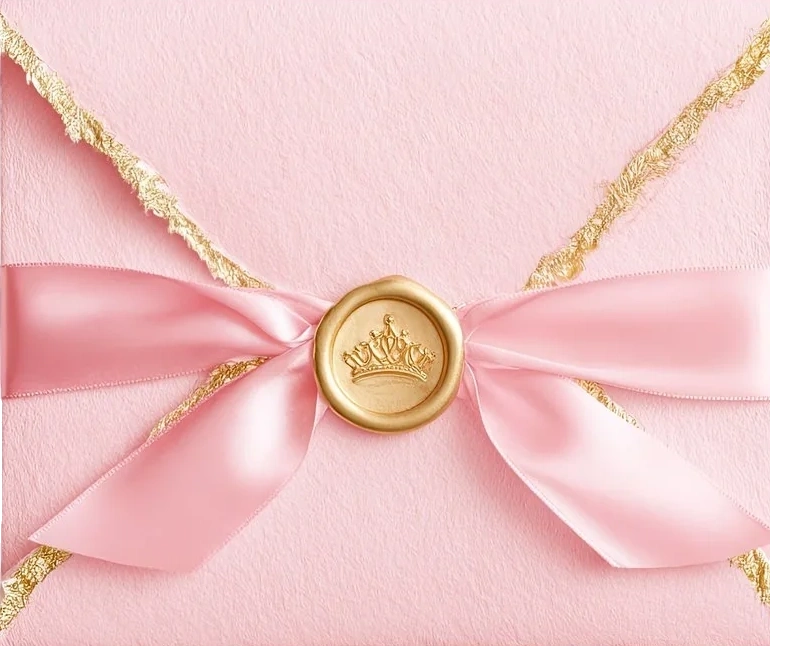
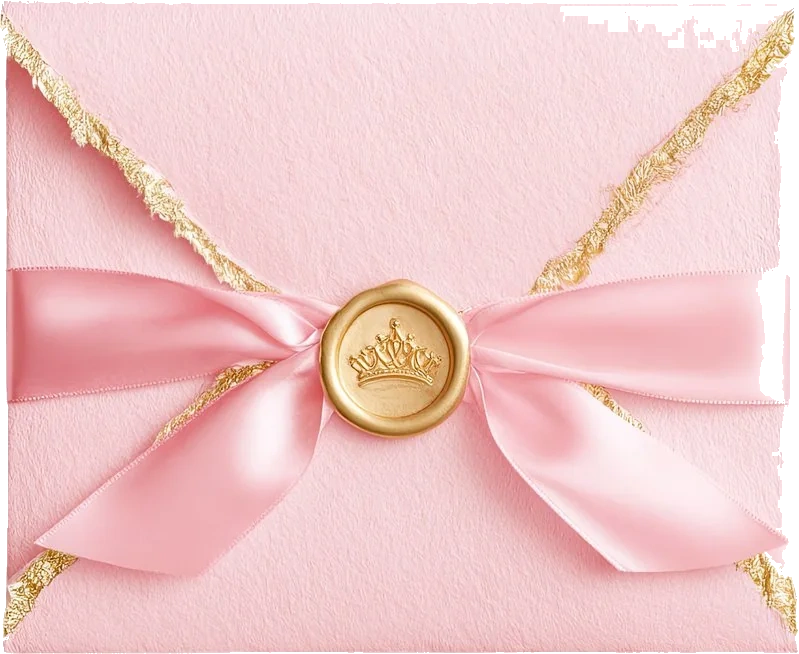
fix(blush-princess): remove crown/butterfly overlay on closed envelope and fix open envelope flap clipping & right-edge line

diff --git a/src/components/templates/BlushPrincessTemplate.tsx b/src/components/templates/BlushPrincessTemplate.tsx
@@ -485,20 +485,21 @@ export default function BlushPrincessTemplate({
             {/* Escenario del sobre: overflow visible, escalado proporcional natural sin recortes */}
             <div
               id="envelopeContainer"
-              className={`envelope-container card-wrapper card-transition-container relative cursor-pointer bg-transparent border-0 shadow-none mx-auto w-full max-w-[460px] ${
+              className={`envelope-container card-wrapper card-transition-container relative cursor-pointer bg-transparent border-0 shadow-none mx-auto w-full max-w-[500px] ${
                 isEnvelopeOpen ? "animate-envelope-pulse" : ""
               }`}
               style={{
                 overflow: "visible",
                 width: "auto",
-                maxWidth: "100%",
+                maxWidth: "500px",
+                margin: "0 auto",
                 background: "transparent",
                 backgroundColor: "transparent",
                 border: "none",
                 boxShadow: "none",
               }}
             >
-              {/* Sobre ABIERTO: escala proporcional a max-width 460px sin recortar solapas laterales */}
+              {/* Sobre ABIERTO: escala proporcional a max-width 500px sin recortar solapas laterales */}
               <div
                 className={`envelope-wrapper relative mx-auto transition-all duration-500 bg-transparent border-0 ${
                   isEnvelopeOpen
@@ -507,8 +508,8 @@ export default function BlushPrincessTemplate({
                 }`}
                 style={{
                   overflow: "visible",
-                  width: "100%",
-                  maxWidth: "460px",
+                  width: "auto",
+                  maxWidth: "500px",
                   margin: "0 auto",
                   background: "transparent",
                   backgroundColor: "transparent",
@@ -523,7 +524,7 @@ export default function BlushPrincessTemplate({
                   className="envelope-image w-full h-auto object-contain bg-transparent border-0 shadow-none block mx-auto"
                   style={{
                     width: "100%",
-                    maxWidth: "460px",
+                    maxWidth: "500px",
                     height: "auto",
                     objectFit: "contain",
                     margin: "0 auto",
@@ -553,15 +554,15 @@ export default function BlushPrincessTemplate({
                 </div>
               </div>
 
-              {/* Sobre CERRADO: escala proporcional natural */}
+              {/* Sobre CERRADO: estructura original limpia con solapa, lazo satinado y sello de lacre */}
               <div
                 className={`envelope-wrapper relative mx-auto transition-opacity duration-200 bg-transparent border-0 ${
                   isEnvelopeOpen ? "opacity-0 pointer-events-none hidden" : "opacity-100 block"
                 }`}
                 style={{
                   overflow: "visible",
-                  width: "100%",
-                  maxWidth: "460px",
+                  width: "auto",
+                  maxWidth: "500px",
                   margin: "0 auto",
                   background: "transparent",
                   backgroundColor: "transparent",
@@ -576,27 +577,13 @@ export default function BlushPrincessTemplate({
                   className="envelope-image w-full h-auto object-contain bg-transparent border-0 block mx-auto"
                   style={{
                     width: "100%",
-                    maxWidth: "460px",
+                    maxWidth: "500px",
                     height: "auto",
                     objectFit: "contain",
                     margin: "0 auto",
                     display: "block",
                     filter: "drop-shadow(0 15px 25px rgba(0, 0, 0, 0.25)) drop-shadow(0 4px 8px rgba(0, 0, 0, 0.15))",
                   }}
-                />
-                {/* Tiara dorada descansando sobre el sobre (como en Canva) */}
-                {/* eslint-disable-next-line @next/next/no-img-element */}
-                <img
-                  src={BLUSH_ASSETS.crown}
-                  alt=""
-                  className="absolute -top-10 sm:-top-12 right-4 sm:right-8 w-24 sm:w-32 h-auto object-contain rotate-[10deg] drop-shadow-md pointer-events-none"
-                />
-                {/* Mariposa rosa perchada */}
-                {/* eslint-disable-next-line @next/next/no-img-element */}
-                <img
-                  src={BLUSH_ASSETS.butterflyB}
-                  alt=""
-                  className="absolute -bottom-5 -left-3 sm:-left-5 w-16 sm:w-20 h-auto object-contain rotate-[18deg] drop-shadow-md animate-flutter pointer-events-none"
                 />
               </div>
 

diff --git a/src/app/globals.css b/src/app/globals.css
@@ -206,7 +206,8 @@ iframe::-webkit-scrollbar,
   box-shadow: none !important;
   overflow: visible !important;
   width: auto !important;
-  max-width: 100% !important;
+  max-width: 500px !important;
+  margin: 0 auto !important;
 }
 
 .language-selector-container,
@@ -221,12 +222,12 @@ iframe::-webkit-scrollbar,
 .envelope-image,
 .envelope-wrapper img,
 .envelope-container img {
-  width: 100%;
-  max-width: 460px;
-  height: auto;
-  display: block;
-  margin: 0 auto;
-  object-fit: contain;
+  width: 100% !important;
+  max-width: 500px !important;
+  height: auto !important;
+  display: block !important;
+  margin: 0 auto !important;
+  object-fit: contain !important;
   border: none !important;
   outline: none !important;
   box-shadow: none !important;
